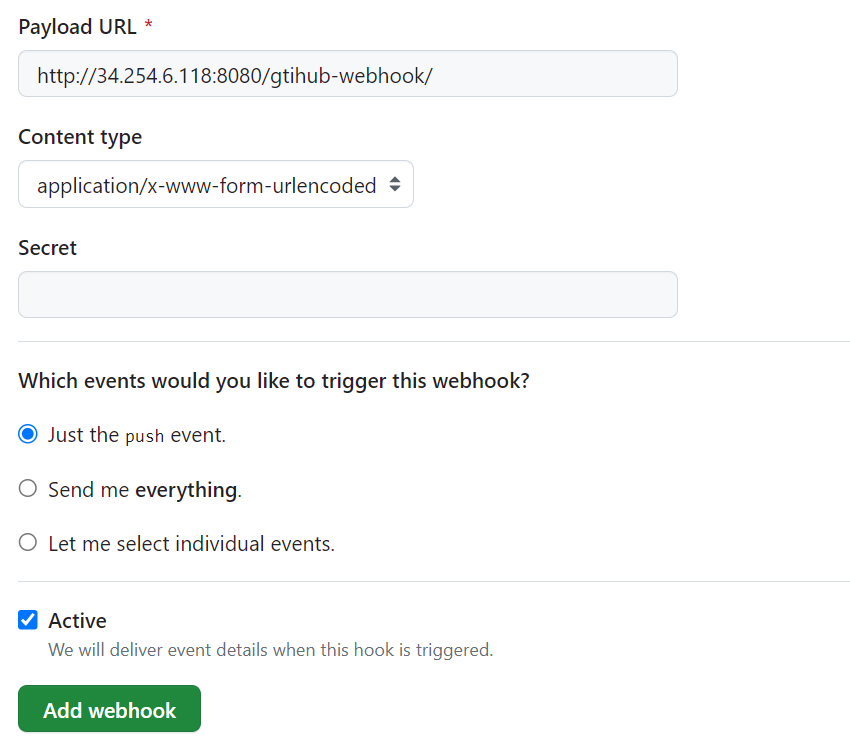
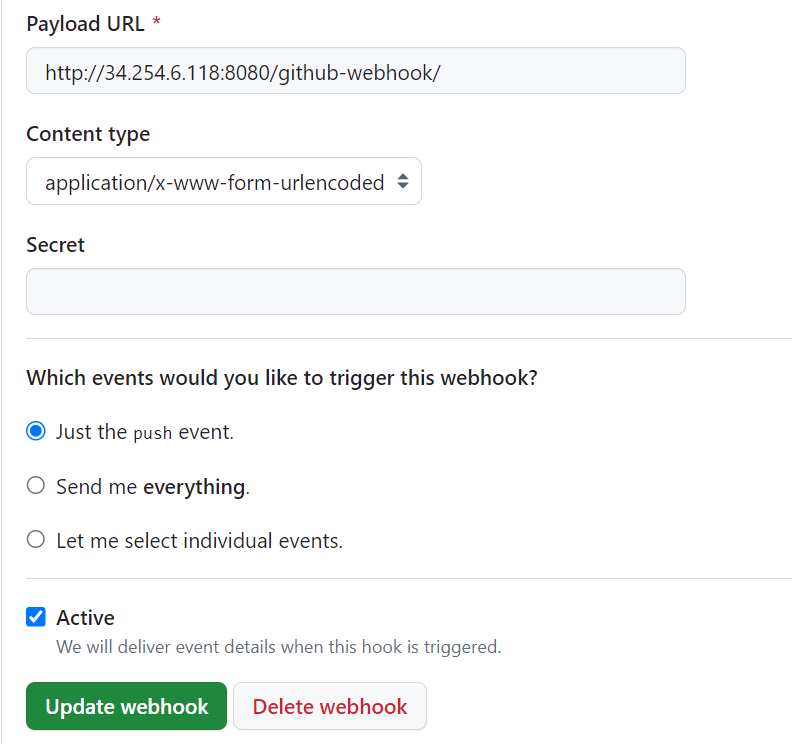
More jenkins content

diff --git a/Jenkins/README.md b/Jenkins/README.md
@@ -70,4 +70,22 @@ We may also need to change the branch specifier to ```main```.
 
 ![Alt text](mainBranchSpecifier.PNG)
 
-Once done, we can then save and build this project for our worker nodes to run. We can then observe build successes or failures through the console output of our project.
+Once done, we can then save and build this project for our worker nodes to run. We can then observe build successes or failures through the console output of our project.oar
+
+## Creating a pipeline with multiple jobs
+
+#### Job 1: Testing pushes from Git
+
+We will need to configure the webhook from GitHub's side to trigger Jenkins on repository push. We can then confirm a successful link to our webhook by the tick icon.
+![Alt text](GithubWebhook.PNG)
+
+![Alt text](ConfirmedWebhook.PNG)
+
+#### Job 2: Performing a Git Merge
+
+We will now need the following configurations in our Jenkins.
+We will use the Git Publisher post build action to trigger a merge into a remote repository. The Merge before build action is misleading as this makes a merge into our local repo.
+
+![Alt text](Job2Config1.PNG)
+![Alt text](Job2Config2.PNG)
+![Alt text](Job2Config3.PNG)
